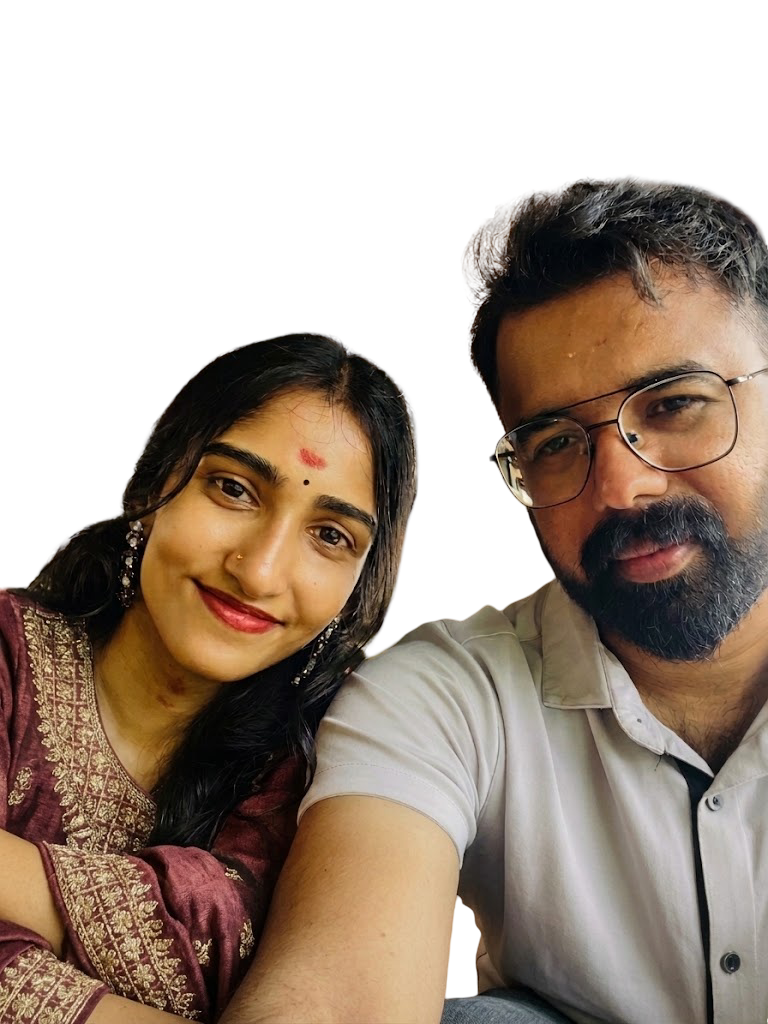
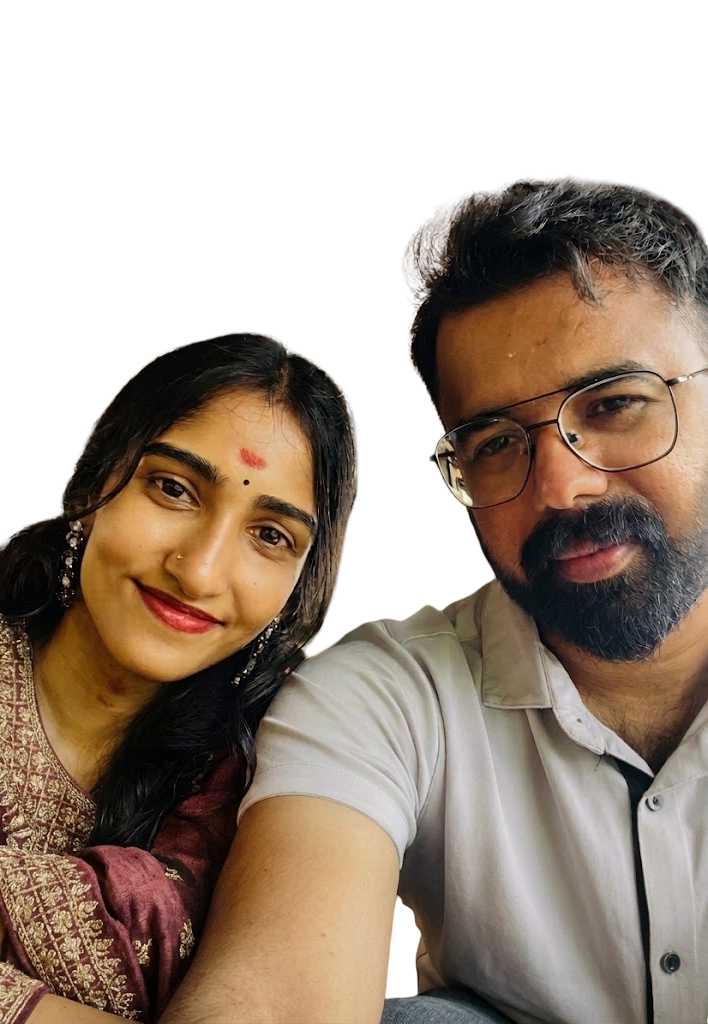
feat: add HeroSection component for wedding event invitation

diff --git a/components/HeroSection.tsx b/components/HeroSection.tsx
@@ -39,30 +39,33 @@ export default function HeroSection({ data }: HeroSectionProps) {
             Vani
           </h1>
         </div>
+      </div>
 
+      {/* Bottom Area: Date & Muhurtham + Scroll Cue */}
+      <div className="flex flex-col items-center gap-5 z-10">
         {/* Date & Muhurtham pill */}
-        <div className="mt-4 px-5 py-2 rounded-full bg-[#190409]/75 border border-[#e8d3aa]/50 backdrop-blur-md shadow-[0_4px_20px_rgba(0,0,0,0.6)]">
-          <p className="font-serif text-sm sm:text-base tracking-widest text-[#f1dfc5] font-semibold">
+        <div className="px-6 py-2 rounded-full bg-black/20 backdrop-blur-xs border border-[#e8d3aa]/30">
+          <p className="font-serif text-sm sm:text-base tracking-widest text-[#f1dfc5] font-semibold drop-shadow-[0_2px_8px_rgba(0,0,0,0.8)]">
             {data.heroDate}
           </p>
-          <p className="text-xs text-[#d8bd91] tracking-wider mt-0.5">
+          <p className="text-xs text-[#d8bd91] tracking-wider mt-0.5 drop-shadow-[0_2px_6px_rgba(0,0,0,0.8)]">
             {data.timingPill}
           </p>
         </div>
-      </div>
 
-      {/* Bottom Scroll Cue */}
-      <a
-        href="#invitation-card"
-        className="group flex flex-col items-center gap-2 text-[#e8d3aa]/85 text-xs uppercase tracking-[0.2em] transition-all duration-300 hover:text-[#fff0df]"
-      >
-        <span className="tracking-[0.25em] text-[11px] drop-shadow-[0_2px_6px_rgba(0,0,0,0.8)]">
-          Scroll to view invitation
-        </span>
-        <div className="w-5 h-8 border border-[#e8d3aa]/60 rounded-full relative bg-[#190409]/40 backdrop-blur-xs">
-          <div className="w-1 h-2 bg-[#e8d3aa] rounded-full absolute top-1.5 left-1/2 -translate-x-1/2 animate-bounce" />
-        </div>
-      </a>
+        {/* Bottom Scroll Cue */}
+        <a
+          href="#invitation-card"
+          className="group flex flex-col items-center gap-2 text-[#e8d3aa]/85 text-xs uppercase tracking-[0.2em] transition-all duration-300 hover:text-[#fff0df]"
+        >
+          <span className="tracking-[0.25em] text-[11px] drop-shadow-[0_2px_6px_rgba(0,0,0,0.8)]">
+            Scroll to view invitation
+          </span>
+          <div className="w-5 h-8 border border-[#e8d3aa]/60 rounded-full relative bg-[#190409]/40 backdrop-blur-xs">
+            <div className="w-1 h-2 bg-[#e8d3aa] rounded-full absolute top-1.5 left-1/2 -translate-x-1/2 animate-bounce" />
+          </div>
+        </a>
+      </div>
     </section>
   );
 }
